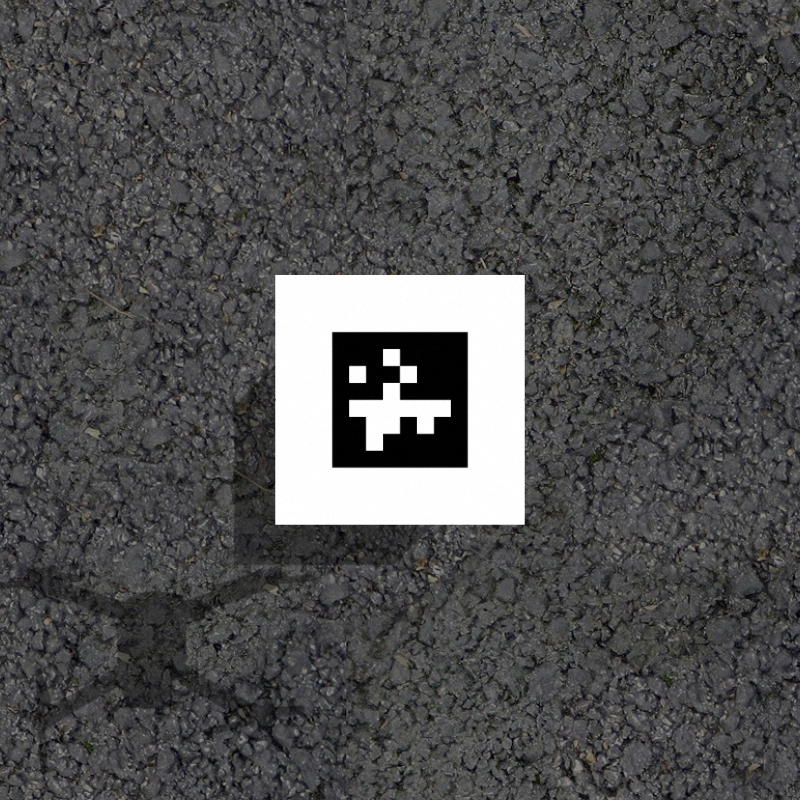
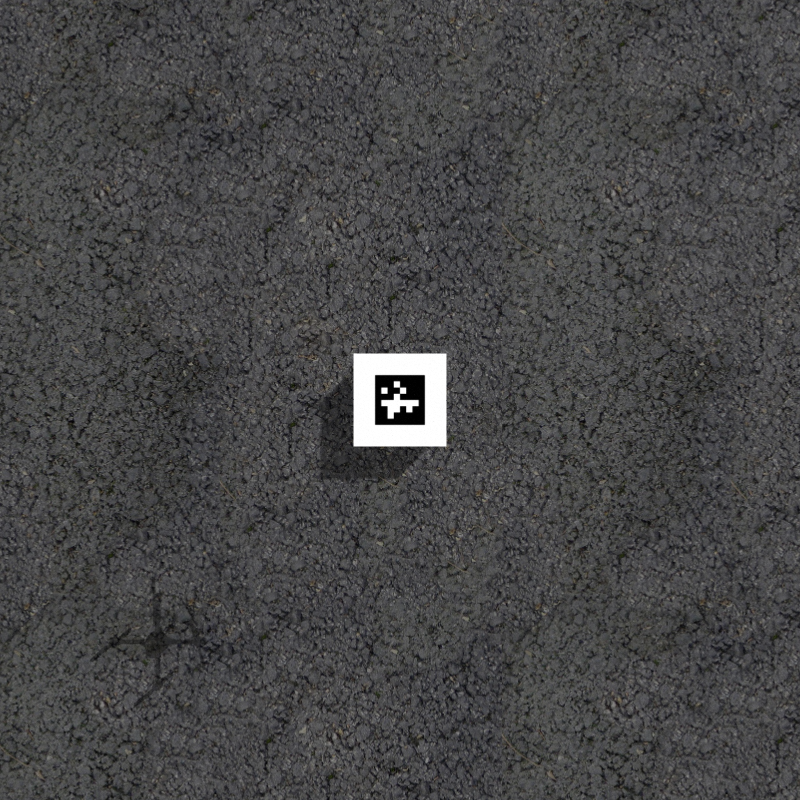
added yaw visual servoing

diff --git a/scripts/ibvs_jaafer_test.py b/scripts/ibvs_jaafer_test.py
@@ -20,6 +20,7 @@ from quaternion import Quaternion
 from dualQuaternion import DualQuaternion
 from tf.transformations import euler_from_quaternion, concatenate_matrices, rotation_matrix, euler_from_matrix
 import matplotlib.pyplot as plt
+from math import * 
 
 
 class Camera():
@@ -54,25 +55,35 @@ class Camera():
         # s = corners[:2, :].reshape(8,1)
 
         a, xg, yg = self.moments(corners)
+        alpha = self.get_angle(corners)
         if mode == 'd':
             self.a = a
+            # alpha = 0
+            print('desired: {}'.format(degrees(alpha)))
+        else:
+            print('current: {}'.format(degrees(alpha)))
         an = self.depth * np.sqrt(self.a/a)
         xn = xg * an
         yn = yg * an
 
         mu = self.get_mu(corners)
-        alpha = 0.5 * np.arctan((2*mu[0])/(mu[1]-mu[2])) + (mu[1]<mu[2])*np.pi/2
+        # alpha = 0.5 * np.arctan((2*mu[0])/(mu[1]-mu[2])) + (mu[1]<mu[2])*np.pi/2
+        
         sh = np.array([xn, yn, an, alpha])
         # sv = np.array([an, 0])
-        print(alpha)
+        
         # return sh, sv
         return sh
 
     def get_angle(self, corners):
 
-        new_corners = np.vstack((corners, corners[:, 0]))
+        delta_y = corners[1, 0] - corners[1, 3]
+        delta_x = corners[0, 0] - corners[0, 3]
 
-
+        th = atan2(delta_y,delta_x)
+        # if th < 0:
+        #     th = (np.pi*2) + th
+        return th
 
 
     def get_spherical_features(self, corners):
@@ -183,8 +194,8 @@ class Camera():
             image2 = cv2.cvtColor(image, cv2.COLOR_BGR2GRAY)
             self.result = self.detector.detect(image2)
 
-            corners_d1 = self.detector.detect(self.d_image)[0].corners
-            corners_d = np.linalg.inv(self.K).dot(np.hstack((corners_d1, np.ones((4,1)))).T)
+            corners_d1 = self.detector.detect(self.d_image)[0].corners.T
+            corners_d = np.linalg.inv(self.K).dot(np.vstack((corners_d1, np.ones((1,4)))))
 
             R1 = rotation_matrix(180*deg2rad, (1, 0, 0))[:3, :3]
             R2 = rotation_matrix(np.pi/2, (0, 1, 0))[:3, :3]
@@ -204,23 +215,21 @@ class Camera():
 
             if len(self.result) != 0:
 
-                corners = self.result[0].corners
+                corners = self.result[0].corners.T
                 for i in range(4):
-                    cv2.circle(image, (int(corners[i, 0]), int(corners[i ,1])), 3, (0,0,255), -1)
-                    cv2.circle(image, (int(corners_d1[i, 0]), int(corners_d1[i, 1])), 3, (0,255,0), -1)
+                    cv2.circle(image, (int(corners[0, i]), int(corners[1, i])), 3, (0,0,255), -1)
+                    cv2.circle(image, (int(corners_d1[0, i]), int(corners_d1[1, i])), 3, (0,255,0), -1)
 
-                
-                
 
-                corners = np.linalg.inv(self.K).dot(np.hstack((corners, np.ones((4,1)))).T)
+                corners = np.linalg.inv(self.K).dot(np.vstack((corners, np.ones((1,4)))))
+                # print(corners*10)
                 a, xg, yg = self.moments(corners)
-                s = self.K.dot(np.array([xg, yg, 1])).T
-                cv2.circle(image, (int(s[0]), int(s[1])), 3, (0,0,255), -1)
+
                 self.image_pub.publish(self.bridge.cv2_to_imgmsg(image, "bgr8"))
                 sh = self.get_features(corners)
-                q =  self.get_spherical_features(corners)
-                r = corners[0, 0] - corners[0, 3]
-                f =self. get_rescaled_feature(q, r)
+                # q =  self.get_spherical_features(corners)
+                # r = corners[0, 0] - corners[0, 3]
+                # f =self. get_rescaled_feature(q, r)
 
                 epsi = self.get_epsi(corners)
                 alpha = self.get_alpha(corners)
@@ -234,6 +243,7 @@ class Camera():
 
 
                 eh = sh - sh_star
+                # print(eh[3])
                 self.ee.append(eh)
                 # delta = f - f_star
                 # ev = sv - sv_star
@@ -241,7 +251,8 @@ class Camera():
 
                 # q1 = s - s_star
                
-                k_f = adaptive_gain(6, 1, 20, np.linalg.norm(eh, np.inf))
+                # k_f = adaptive_gain(4, .8, 20, np.linalg.norm(eh, np.inf))
+                k_f = 2
                 v11 = np.linalg.pinv(Ls).dot(-k_f * eh)
                 control_law_AR = R3.dot(R1.dot(v11[:3]))
 
@@ -254,10 +265,9 @@ class Camera():
                 #     elif v[i] < -2:
                 #         v[i] = -2
 
-
-                self.vv.append(v)
+                self.vv.append(np.append(v, -v11[3]))
                 # print(eh)
-                w = np.array([0., 0., v11[3]]) 
+                w = np.array([0., 0., -v11[3]]) 
 
                 theta = np.linalg.norm(w)
                 if theta == 0:
@@ -403,25 +413,26 @@ def main():
 
     d_image = ndimage.imread('../features.png')
     d_image = cv2.cvtColor(d_image, cv2.COLOR_BGR2GRAY)
-    cam = Camera(d_image, .77)
+    cam = Camera(d_image, 2.42)
+
 
     rospy.spin()
 
-    label = ['vx', 'vy', 'vz']
-    label2 = ['ex', 'ey', 'ez']
-    color = ['#ed2224', '#344ea2', '#1a8585']
+    label = ['vx', 'vy', 'vz', 'wz']
+    label2 = ['ex', 'ey', 'ez', r'e$\alpha$']
+    color = ['#ed2224', '#344ea2', '#1a8585', '#F99706']
     fig = plt.figure(figsize=(10, 30))
     t1 = np.arange(0.0, len(cam.vv), 1)
     fig.add_subplot(2,1,1)
     plt.ylim([-2, 2])
-    for i in range(3):
+    for i in range(4):
         plt.plot(t1, np.array(cam.ee)[:, i], label= label2[i])
 
     plt.legend(loc='upper right')
 
     fig.add_subplot(2,1,2)
     plt.ylim([-3, 3])
-    for i in range(3):
+    for i in range(4):
         plt.plot(t1, np.array(cam.vv)[:, i], color = color[i], label= label[i])
 
     plt.legend(loc='upper right')
